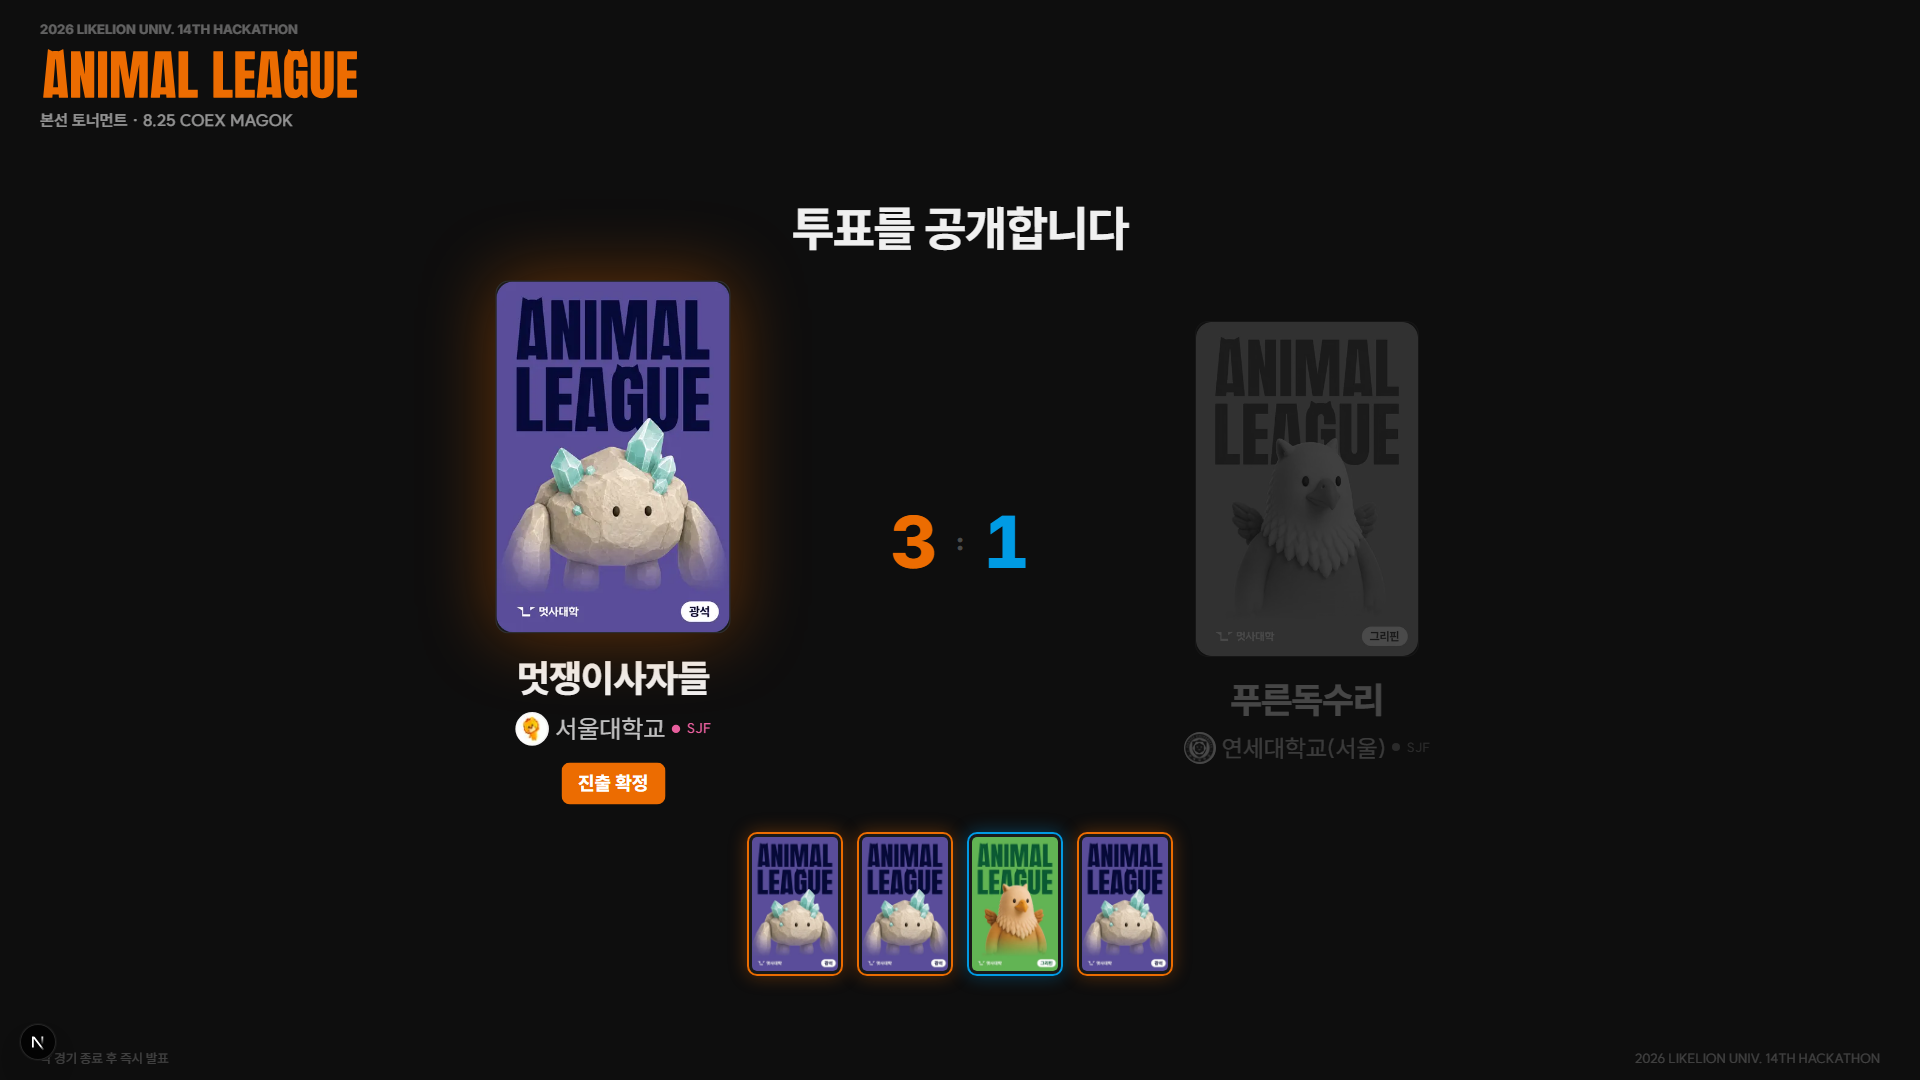
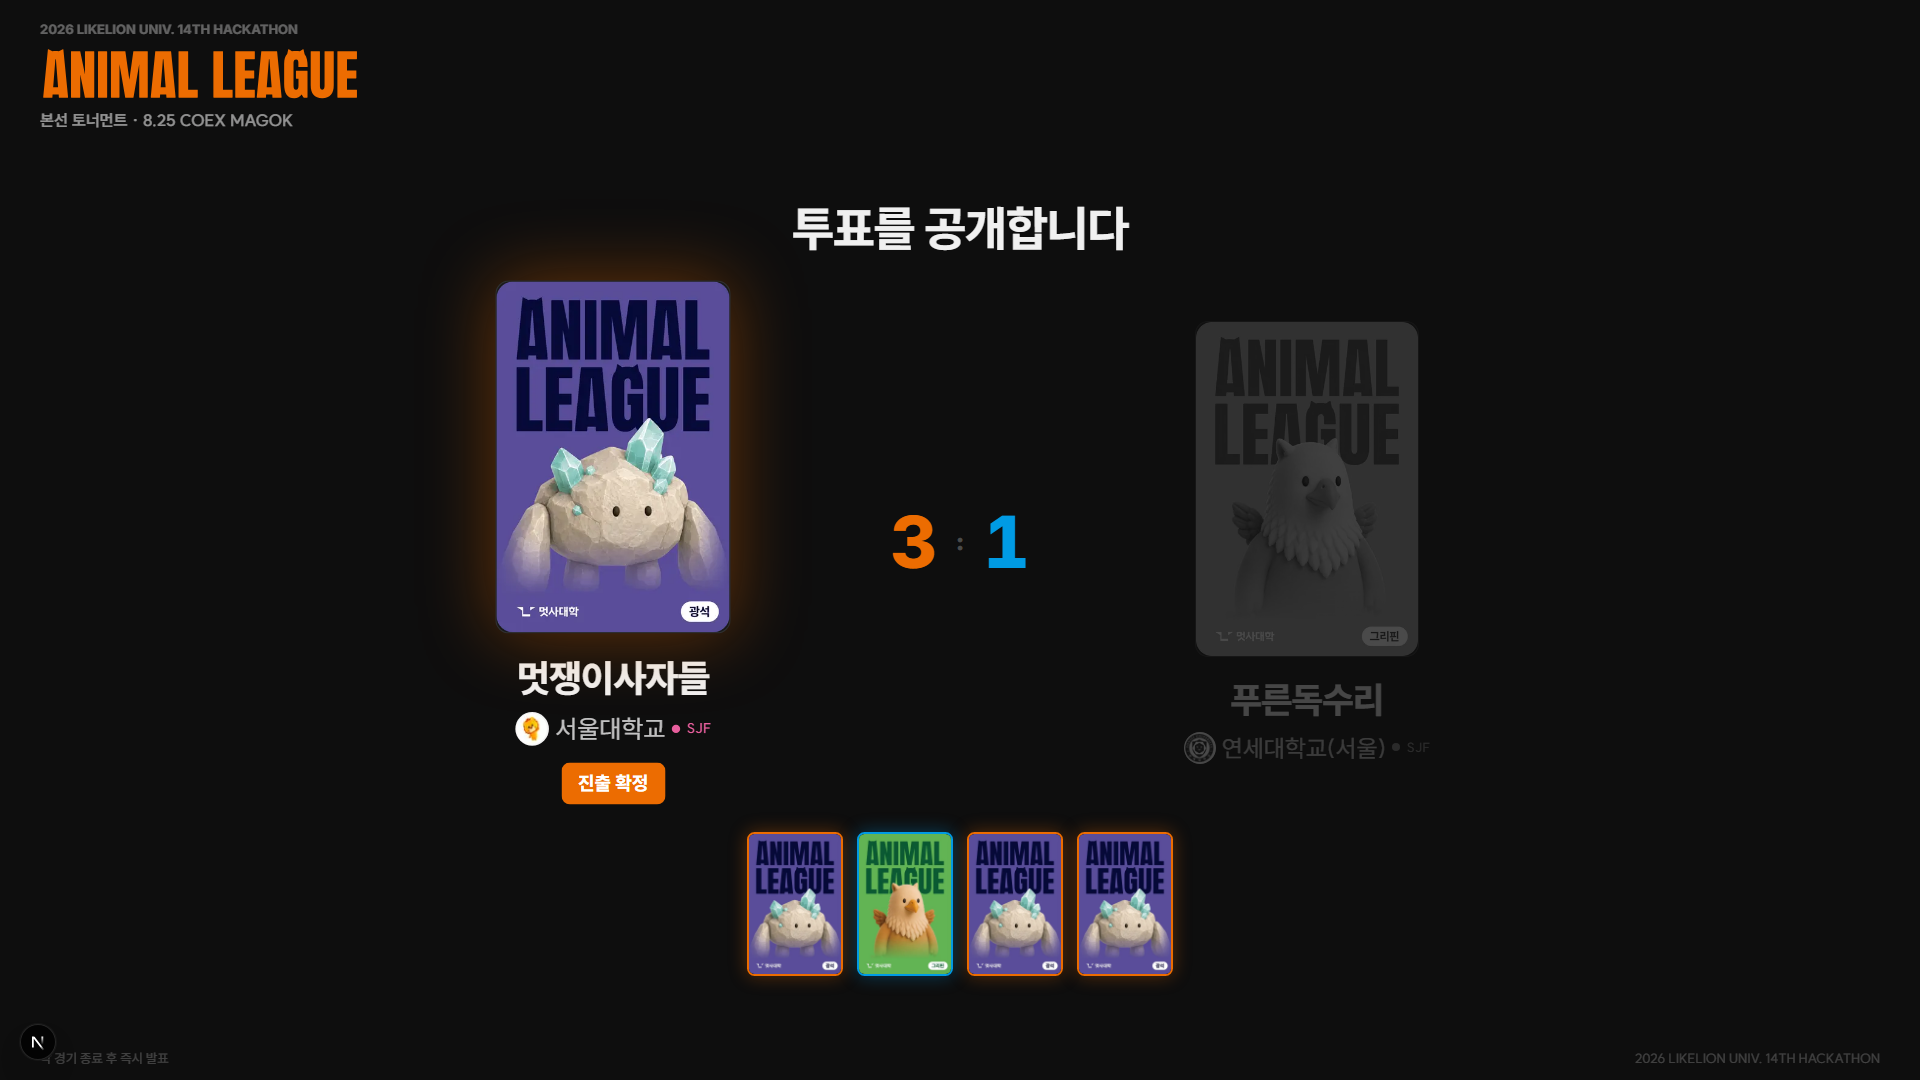
fix(viewer): hug card radius with border outset instead of frame gap
- 운영자 피드백 재반영: 액자(갭) 구조가 아니라 테두리가 카드 곡률에 밀착해야
  한다 — 기하 해법은 바깥 radius = 카드 곡률 + 테두리 두께. CSS 가 overflow
  안쪽 클리핑 곡선을 (바깥 − border)로 만들므로 안쪽이 정확히 베이크 곡률이
  되어 갭 없이 맞물린다
- ui.tsx 에 cardRadiusWithBorder(px) 로 공식화 — CARD_RADIUS 옆에 두어
  관계가 상수와 함께 남는다 (직전 커밋의 액자 구조는 폐기)
- 검증: tsc·eslint 클린, next build 성공, 승자 발표 화면 재캡처로 밀착 확인

Changed region(s): [[0.375, 0.7639, 0.625, 0.9167]]

diff --git a/app/page.tsx b/app/page.tsx
@@ -14,7 +14,7 @@
 
 import { useCallback, useEffect, useRef, useState } from 'react';
 import Image from 'next/image';
-import { CARD_RADIUS, CharacterArt, SchoolTag, TRACK_COLORS, Wordmark } from '@/components/ui';
+import { cardRadiusWithBorder, CharacterArt, SchoolTag, TRACK_COLORS, Wordmark } from '@/components/ui';
 import { armSfx, playChips, playFan, playFlip, playImpact, playShuffle, playVersus } from '@/lib/sfx';
 import universityLogos from '@/lib/universityLogos';
 import { winningTeamId, type Match, type Team } from '@/lib/tournament';
@@ -504,32 +504,31 @@ function RevealSequence({ state, match }: { state: PublicState; match: Match }) 
                 onAnimationEnd={(e) => e.animationName === 'chipFlip' && setOpened((n) => Math.max(n, i + 1))}
                 style={{ animationDelay: `${(i * CHIP_INTERVAL_MS) / 1000}s` }}
               >
-                {/* 앞면 — 팀 캐릭터 카드. 테두리와 카드는 액자 구조로 분리 (8/22):
-                    테두리 div 에 CARD_RADIUS 를 그대로 쓰면 border 두께만큼 안쪽에서
-                    에셋의 베이크 곡률과 어긋나 모서리가 부딪혀 보인다 — 3px 갭을 두고
-                    바깥(고정 10px)과 카드(베이크 곡률)가 각자 곡률을 갖게 한다 */}
+                {/* 앞면 — 팀 캐릭터 카드. 테두리가 카드 곡률에 밀착하도록 바깥 radius 를
+                    (카드 곡률 + 테두리 두께)로 준다 — 안쪽 클리핑 곡선이 정확히 베이크
+                    곡률이 된다 (ui.tsx cardRadiusWithBorder, 8/22) */}
                 <div
-                  className="chip-face absolute inset-0 rounded-[10px] border-2 bg-white/5 p-0.75"
+                  className="chip-face absolute inset-0 overflow-hidden border-2 bg-white/5"
                   style={{
+                    borderRadius: cardRadiusWithBorder(2),
                     borderColor: SIDE_COLORS[side],
                     boxShadow: `0 0 18px color-mix(in srgb, ${SIDE_COLORS[side]} 35%, transparent)`,
                   }}
                 >
-                  <div className="relative h-full w-full overflow-hidden" style={{ borderRadius: CARD_RADIUS }}>
-                    {chipCharacter(side) ? (
-                      <Image src={`/characters/${chipCharacter(side)}.png`} alt="" fill sizes="96px" className="object-cover" />
-                    ) : (
-                      <span className="grid h-full w-full place-items-center text-xl font-extrabold" style={{ color: SIDE_COLORS[side] }}>
-                        {side}
-                      </span>
-                    )}
-                  </div>
+                  {chipCharacter(side) ? (
+                    <Image src={`/characters/${chipCharacter(side)}.png`} alt="" fill sizes="96px" className="object-cover" />
+                  ) : (
+                    <span className="grid h-full w-full place-items-center text-xl font-extrabold" style={{ color: SIDE_COLORS[side] }}>
+                      {side}
+                    </span>
+                  )}
                 </div>
-                {/* 뒷면 — 물음표 카드 (디자이너 에셋), 같은 액자 구조 */}
-                <div className="chip-face chip-back absolute inset-0 rounded-[10px] border border-white/15 bg-white/5 p-0.75">
-                  <div className="relative h-full w-full overflow-hidden" style={{ borderRadius: CARD_RADIUS }}>
-                    <Image src="/card-back-Q-ver2.png" alt="" fill sizes="96px" className="object-cover" />
-                  </div>
+                {/* 뒷면 — 물음표 카드 (디자이너 에셋), 같은 밀착 곡률 */}
+                <div
+                  className="chip-face chip-back absolute inset-0 overflow-hidden border border-white/15 bg-white/5"
+                  style={{ borderRadius: cardRadiusWithBorder(1) }}
+                >
+                  <Image src="/card-back-Q-ver2.png" alt="" fill sizes="96px" className="object-cover" />
                 </div>
               </div>
             </div>
@@ -563,21 +562,20 @@ function DrawCard({ state, index, order }: { state: PublicState; index: number |
         onAnimationStart={(e) => e.animationName === 'chipFlip' && playFlip()}
         style={{ animationDelay: `${DRAW_FLIP_BASE_S + order * 0.5}s` }}
       >
-        {/* 공개 칩과 같은 액자 구조 (8/22) — 테두리·카드 곡률 분리 */}
+        {/* 공개 칩과 같은 밀착 곡률 (8/22) — 바깥 radius = 카드 곡률 + 테두리 */}
         <div
-          className="chip-face absolute inset-0 rounded-xl border border-(--orange)/40 bg-white/5 p-0.75"
-          style={{ boxShadow: '0 0 24px rgba(236,108,1,0.25)' }}
+          className="chip-face absolute inset-0 overflow-hidden border border-(--orange)/40 bg-white/5"
+          style={{ borderRadius: cardRadiusWithBorder(1), boxShadow: '0 0 24px rgba(236,108,1,0.25)' }}
         >
-          <div className="relative h-full w-full overflow-hidden" style={{ borderRadius: CARD_RADIUS }}>
-            {team?.character ? (
-              <Image src={`/characters/${team.character}.png`} alt="" fill sizes="176px" className="object-cover" />
-            ) : null}
-          </div>
+          {team?.character ? (
+            <Image src={`/characters/${team.character}.png`} alt="" fill sizes="176px" className="object-cover" />
+          ) : null}
         </div>
-        <div className="chip-face chip-back absolute inset-0 rounded-xl border border-white/15 bg-white/5 p-0.75">
-          <div className="relative h-full w-full overflow-hidden" style={{ borderRadius: CARD_RADIUS }}>
-            <Image src="/card-back-0624.png" alt="" fill sizes="176px" className="object-cover" />
-          </div>
+        <div
+          className="chip-face chip-back absolute inset-0 overflow-hidden border border-white/15"
+          style={{ borderRadius: cardRadiusWithBorder(1) }}
+        >
+          <Image src="/card-back-0624.png" alt="" fill sizes="176px" className="object-cover" />
         </div>
       </div>
       {/* 팀명은 카드가 뒤집힌 뒤에 떠오른다 */}

diff --git a/components/ui.tsx b/components/ui.tsx
@@ -107,6 +107,16 @@ export function SchoolTag({
  */
 export const CARD_RADIUS = '5.7% / 3.8%';
 
+/**
+ * 테두리 있는 카드 상자용 곡률 — 바깥 radius = 카드 곡률 + 테두리 두께.
+ * CSS 는 overflow 클리핑의 안쪽 곡선을 (바깥 radius − border 폭)으로 만들기 때문에,
+ * 이렇게 줘야 안쪽 곡선이 정확히 CARD_RADIUS 가 되어 에셋의 베이크 곡률과
+ * 갭 없이 밀착한다. 바깥 radius 에 CARD_RADIUS 를 그대로 쓰면 안쪽이
+ * (곡률 − 테두리)로 좁아져 카드 모서리와 부딪힌다 (8/22).
+ */
+export const cardRadiusWithBorder = (borderPx: number) =>
+  `calc(5.7% + ${borderPx}px) / calc(3.8% + ${borderPx}px)`;
+
 export function CharacterArt({
   characterKey,
   className,
